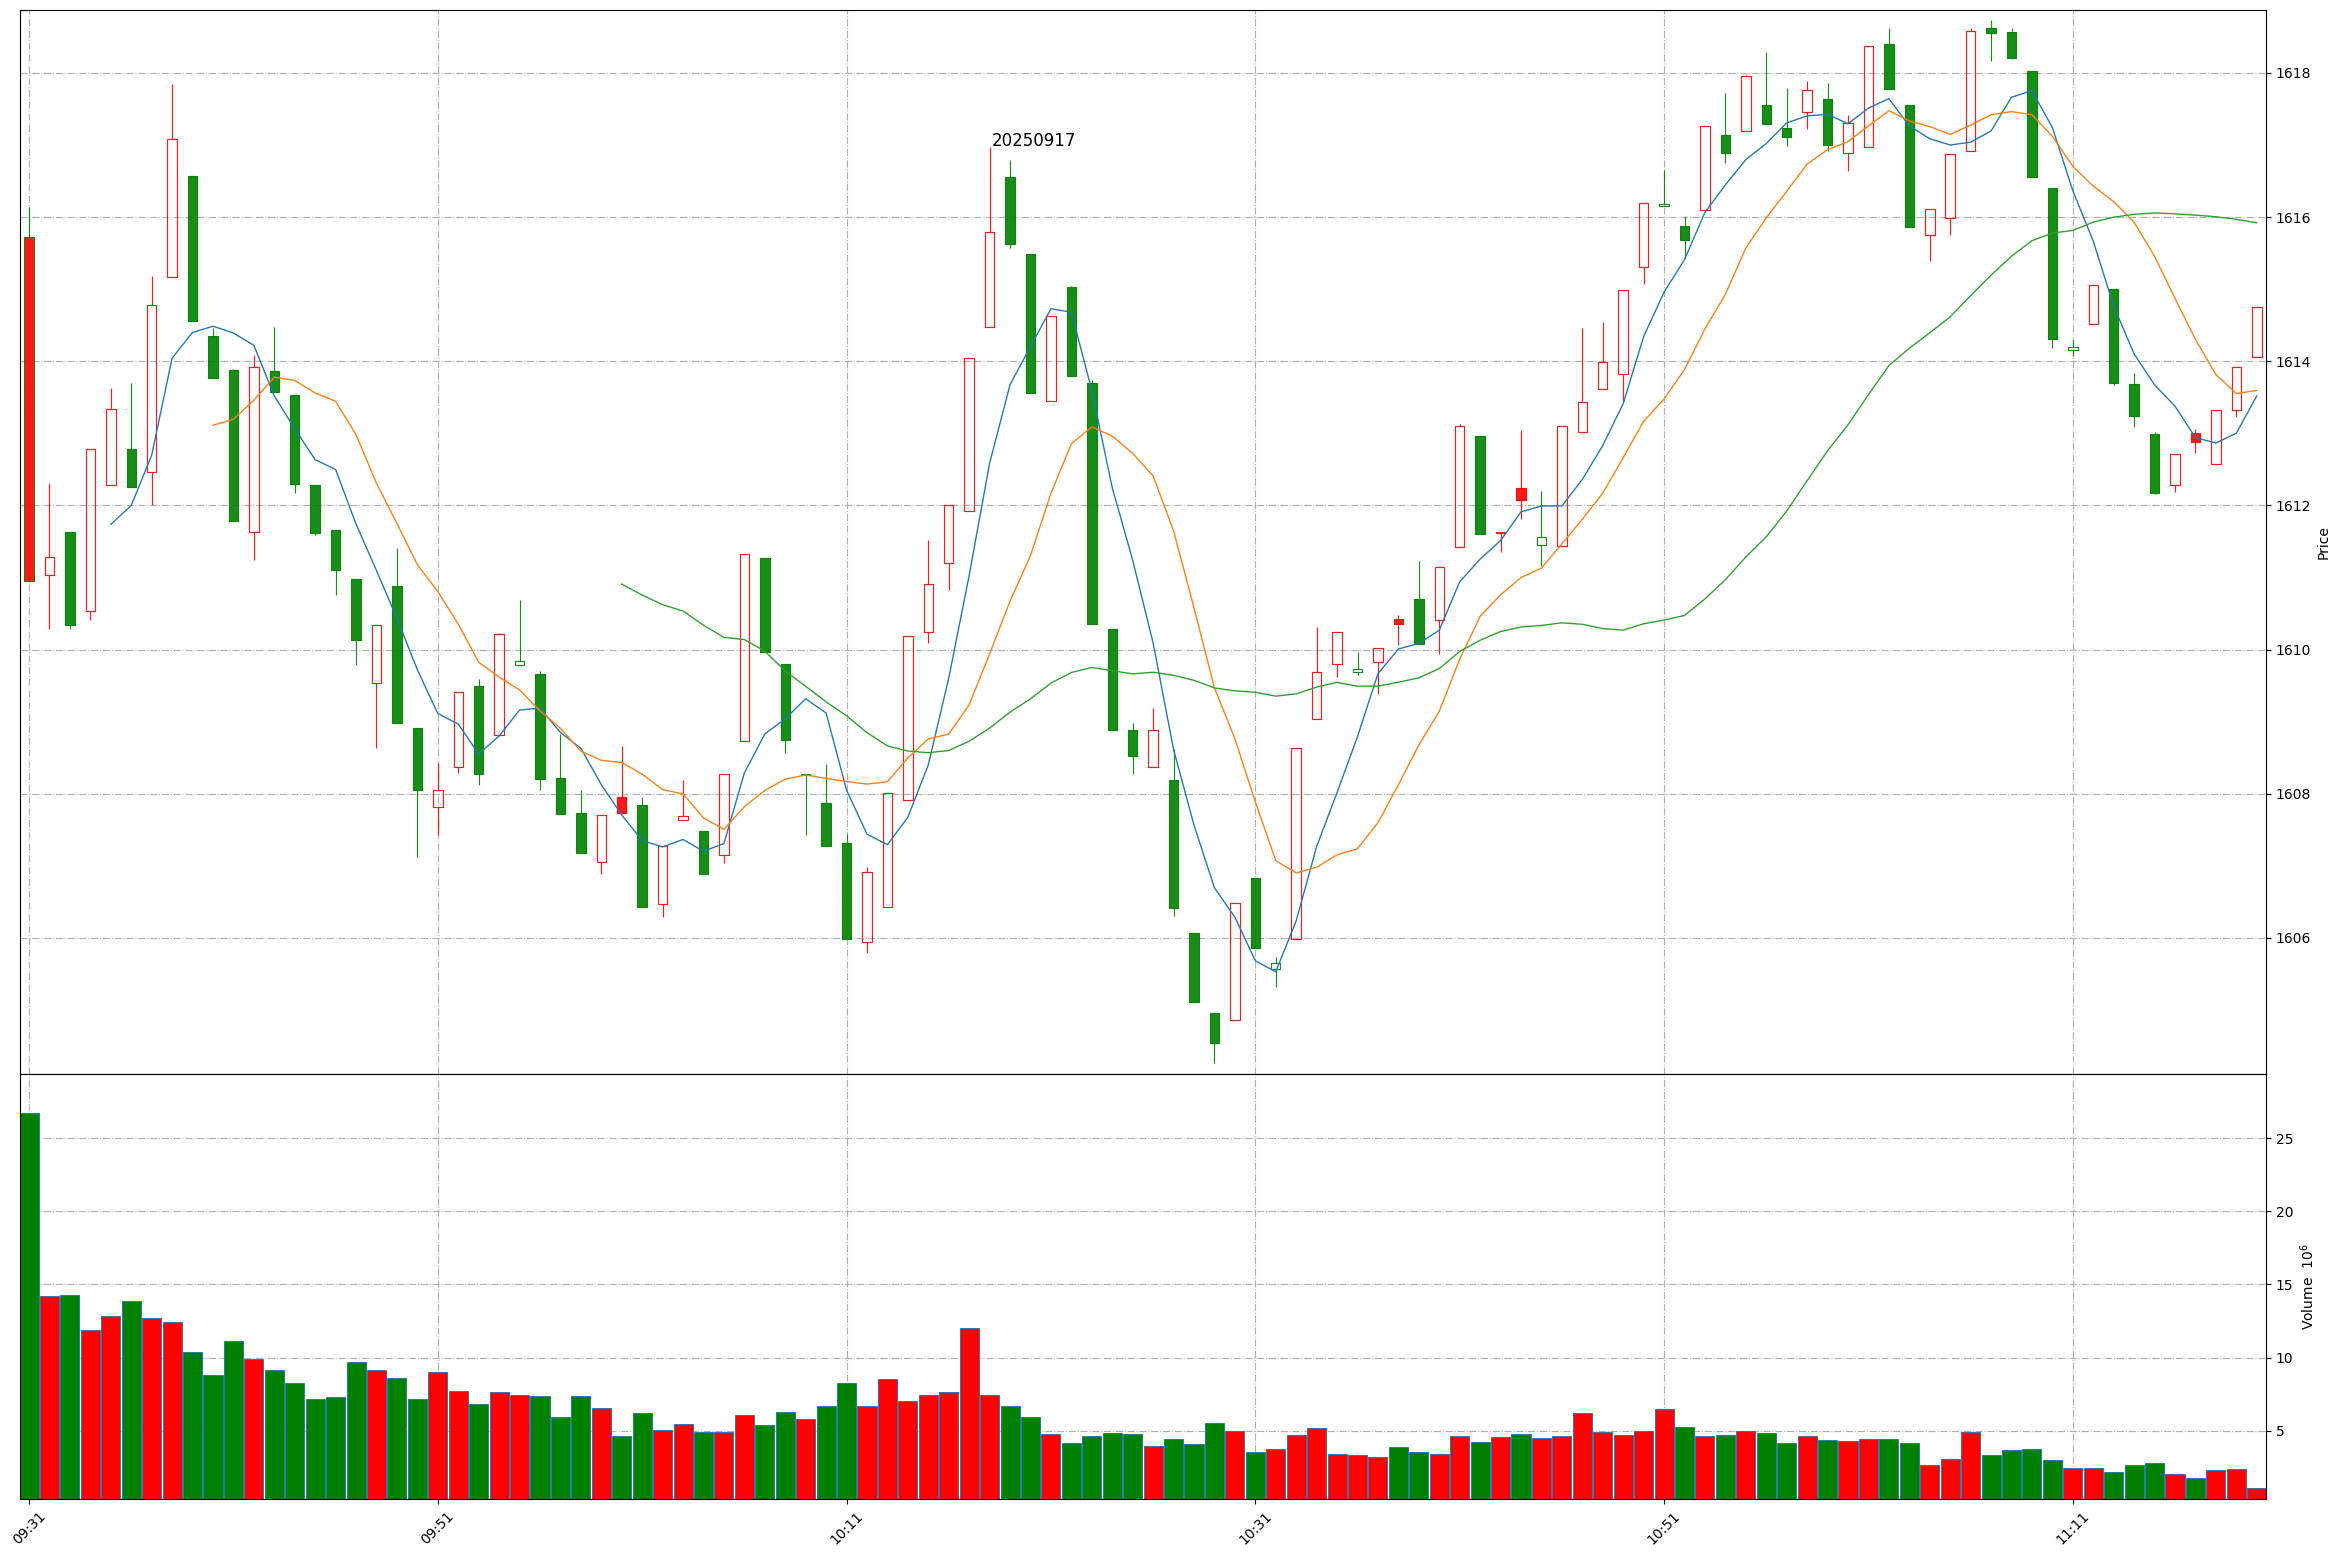
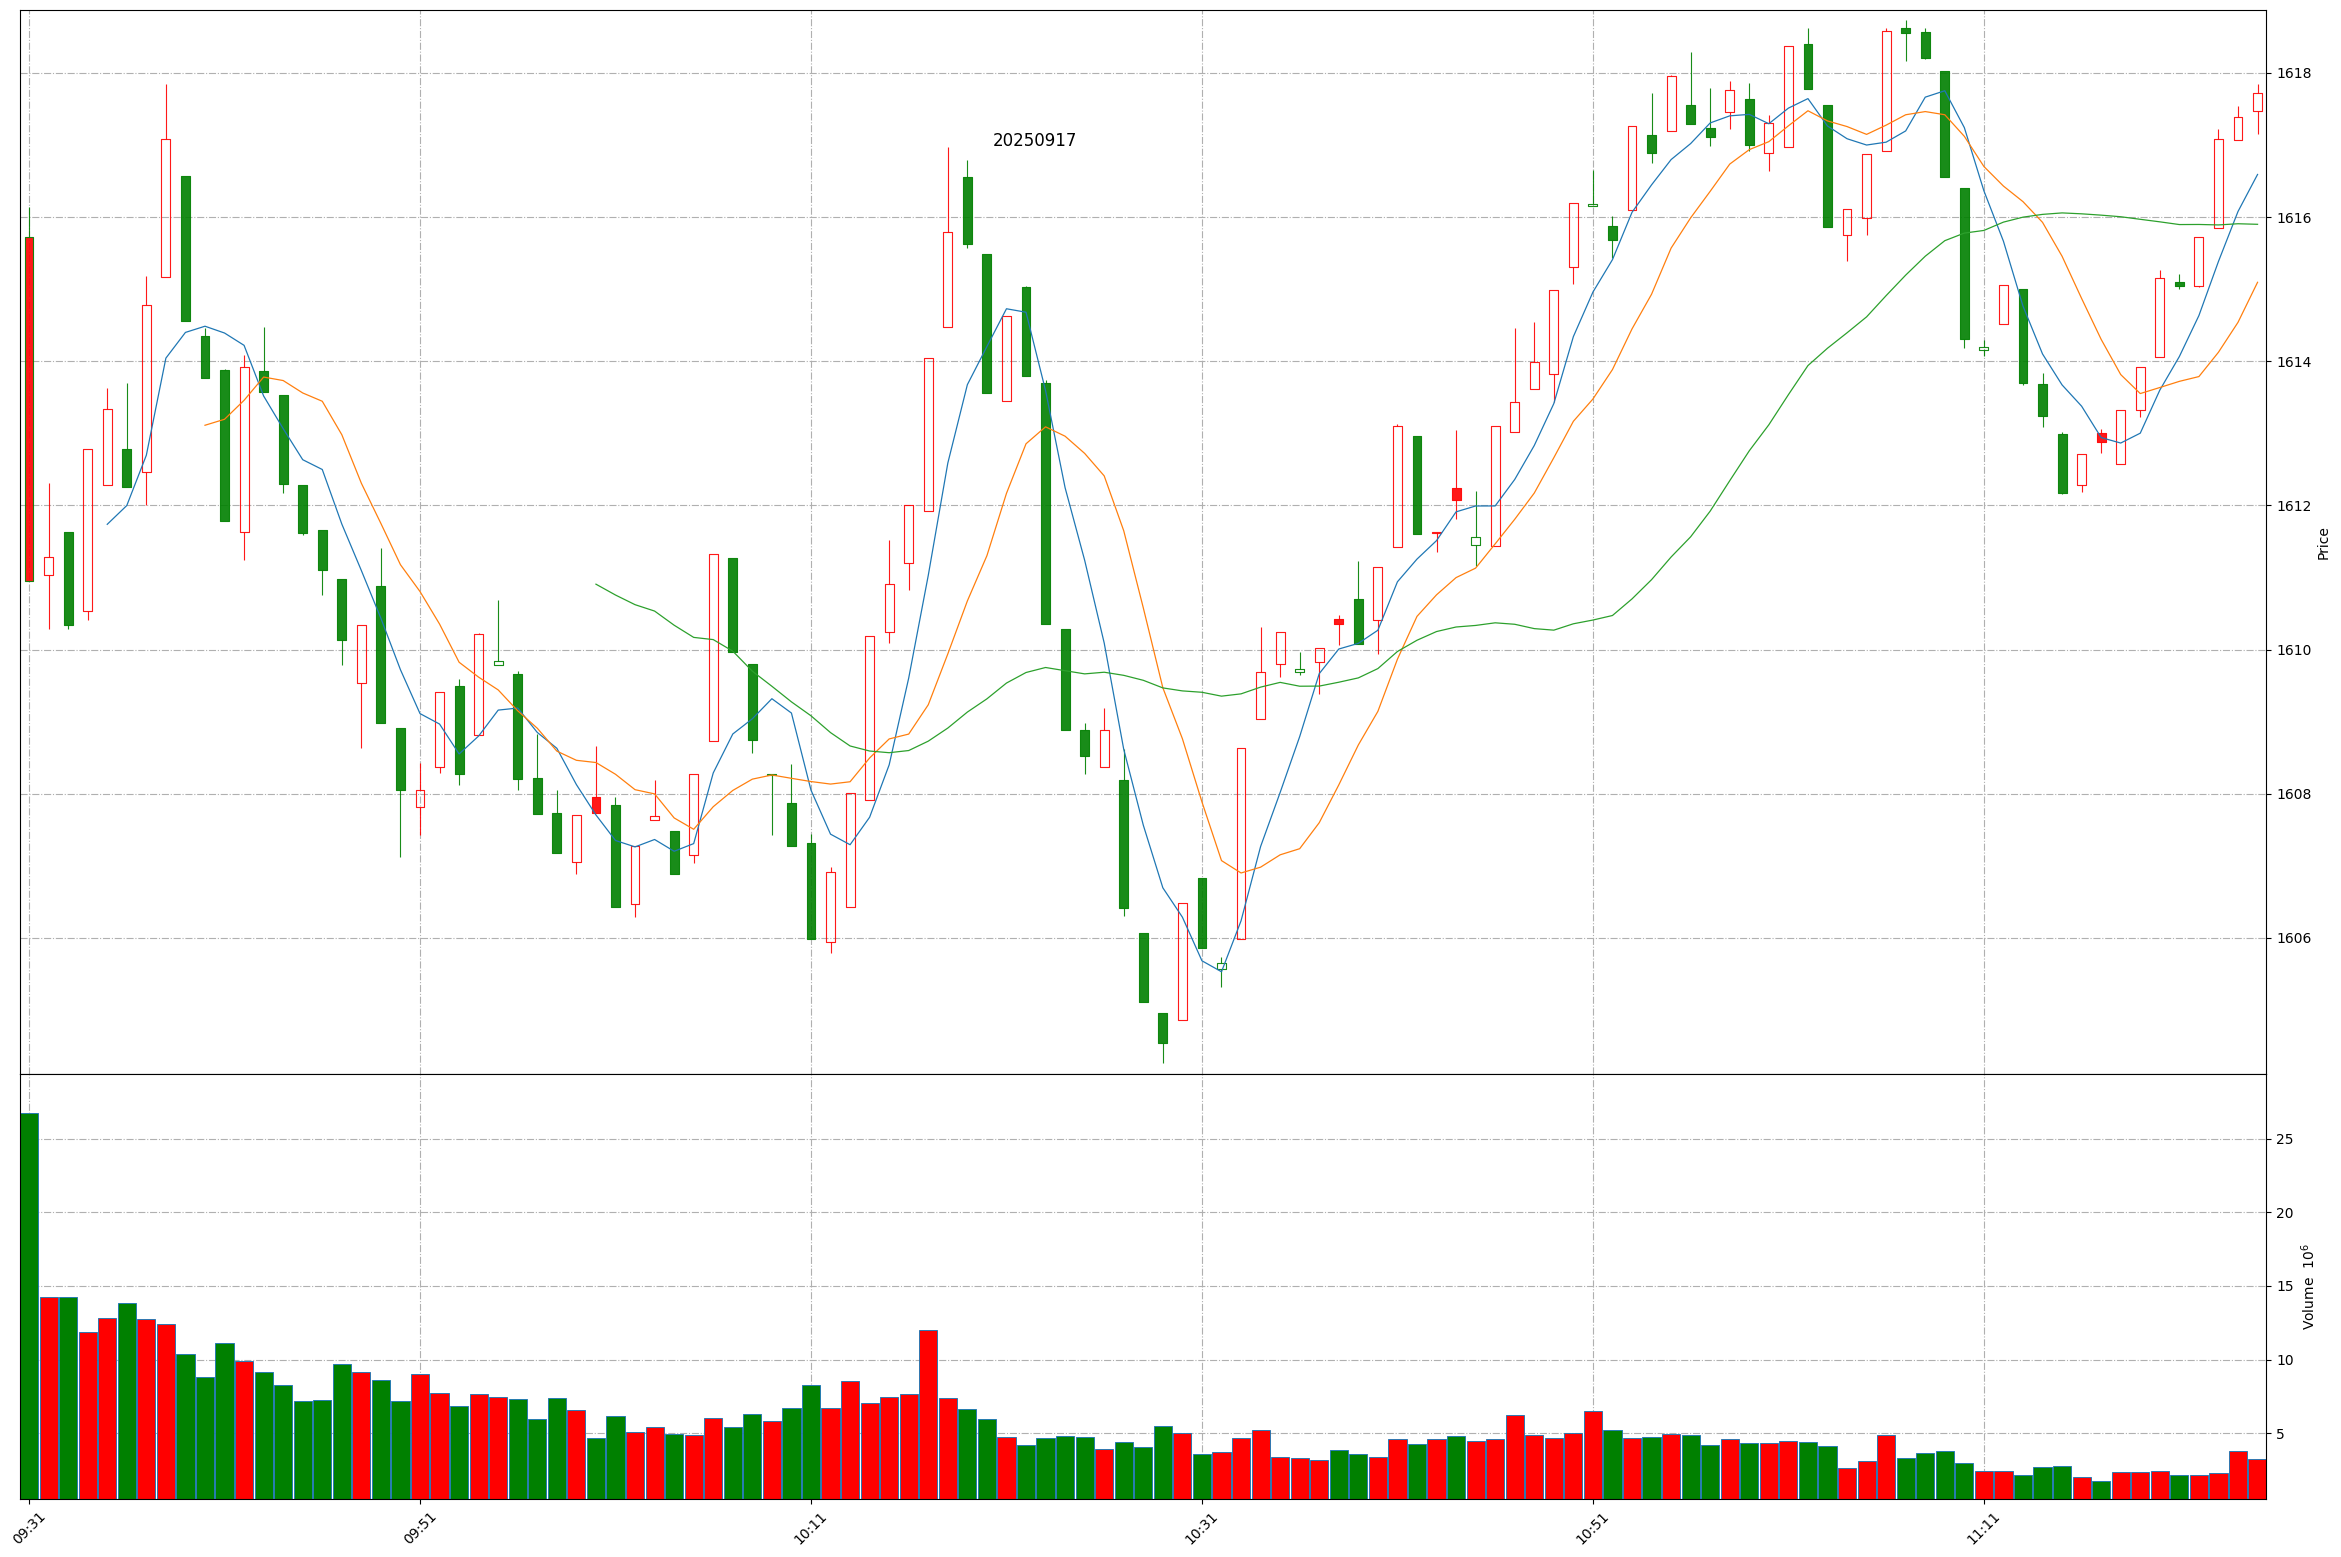
Github action update at 2025-09-17 11:25:03.

Changed region(s): [[0.0312, 0.0308, 0.9671, 0.6782], [0.0312, 0.8324, 0.9671, 0.9865]]

diff --git a/README.md b/README.md
@@ -1,11 +1,11 @@
 
 # Daily-A-share-market-quotes 每日 A 股指数（5min 更新）- 20250917
 
-### 上证指数 20250917 11:19
+### 上证指数 20250917 11:25
 ![](./fig/2025/9/20250917-sh000001.png)
 
-### 深证成指 20250917 11:19
+### 深证成指 20250917 11:25
 ![](./fig/2025/9/20250917-sz399001.png)
 
-### 北证50 20250917 11:19
+### 北证50 20250917 11:25
 ![](./fig/2025/9/20250917-bj899050.png)
